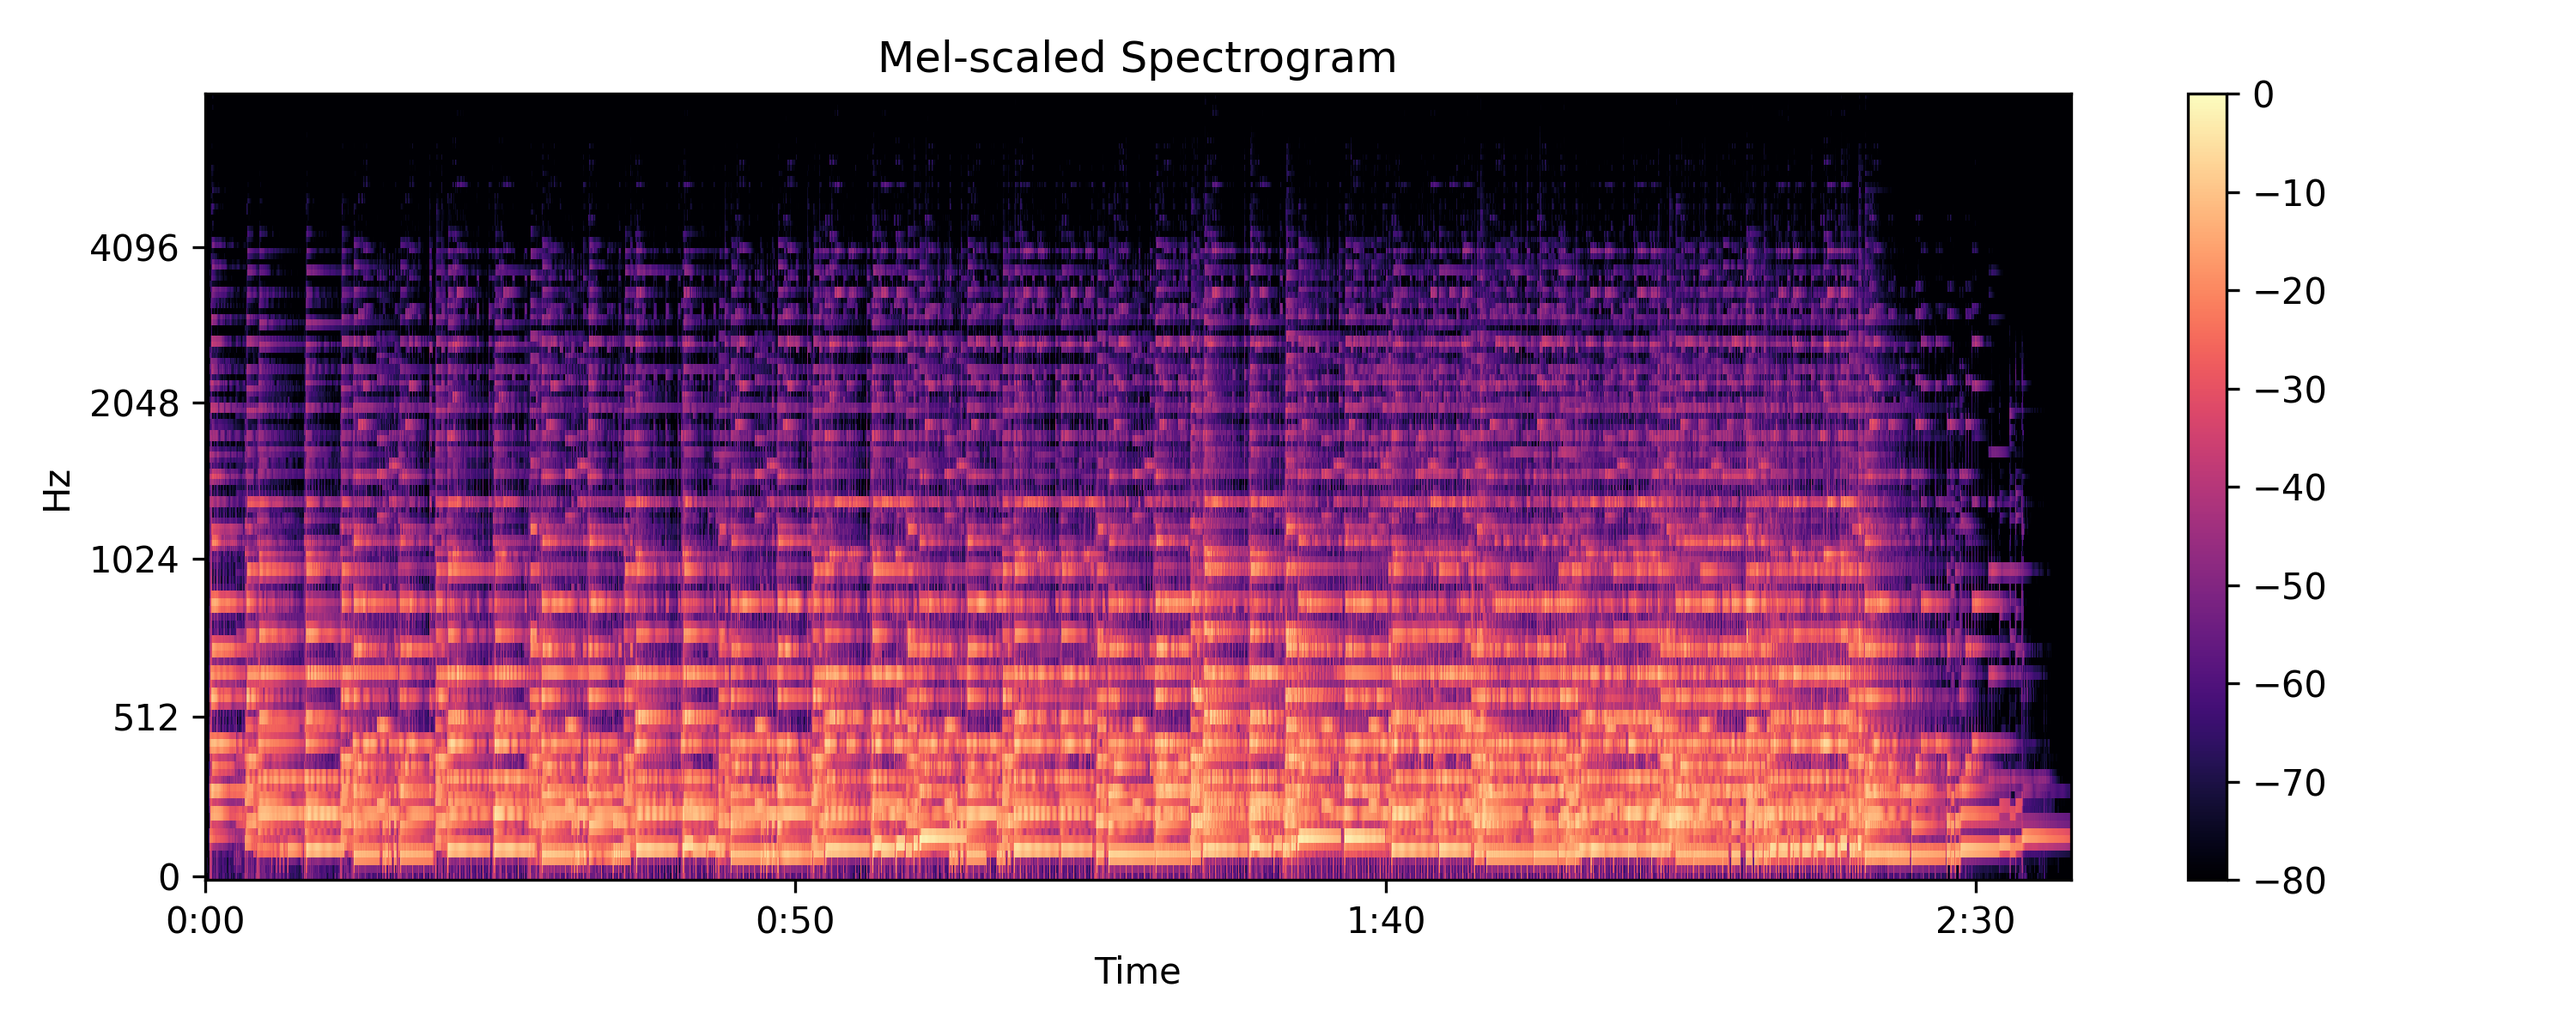
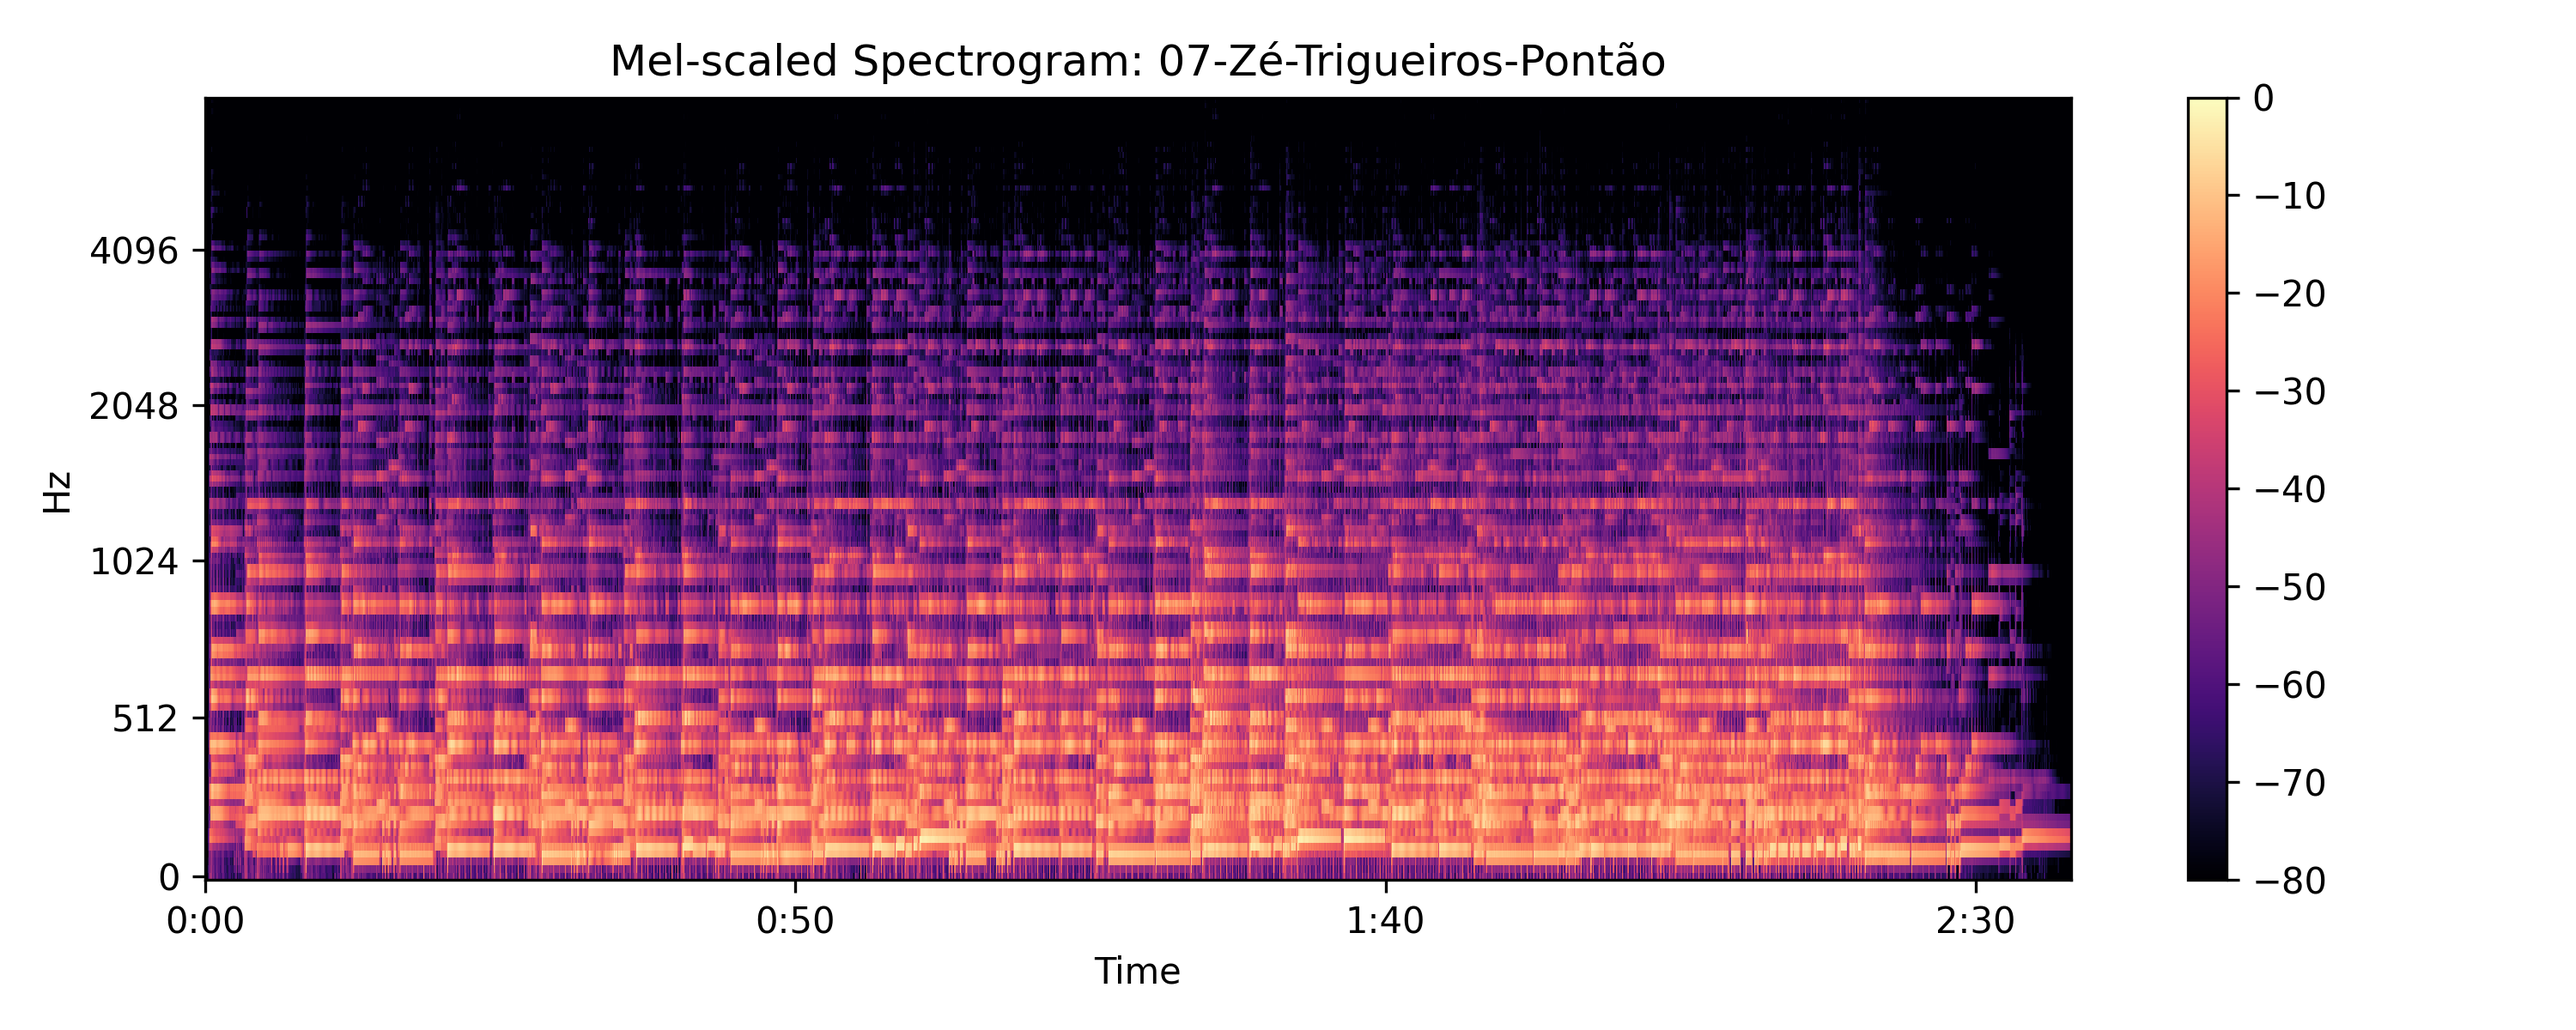
processing + batch encoder

diff --git a/wrangling/preprocessing.py b/wrangling/preprocessing.py
@@ -1,0 +1,168 @@
+import os
+import librosa
+import librosa.display
+import numpy as np
+import matplotlib.pyplot as plt
+
+# Set the path to the directory containing the .wav files
+WAVDIR = "example-train/wav/"
+
+# Set STFT params
+N_FFT = 2048
+HOP_LENGTH = 512
+
+# Set MFCC params
+N_MFCC = 13
+
+# display the waveform
+def show_waveform(signal, sr):
+    librosa.display.waveshow(signal, sr=sr)
+    plt.xlabel("Time")
+    plt.ylabel("Amplitude")
+    plt.show()
+
+
+# get the song name from the path
+def get_song_name(wav_path):
+    return wav_path.split("/")[-1].replace(".wav", "")
+
+
+# compute the mel-scaled spectrogram for a single .wav file
+def single_mel(wav_path, batch_mode=False, wav_dir=None, show_waveform=False):
+    if batch_mode:
+        assert wav_dir is not None, "wav_dir must be specified in batch mode"
+
+    song_name = get_song_name(wav_path)
+    print(f"Computing mel-scaled spectrogram for {song_name}...")
+    # load the waveform
+    signal, sr = librosa.load(wav_path)
+    if show_waveform:
+        show_waveform(signal, sr)
+    # compute the mel-scaled spectrogram
+    S = librosa.feature.melspectrogram(y=signal, sr=sr, n_mels=128, fmax=8000)
+    S_dB = librosa.power_to_db(S, ref=np.max)
+    # construct the figure
+    plt.figure(figsize=(10, 4))
+    librosa.display.specshow(S_dB, x_axis="time", y_axis="mel", sr=sr, fmax=8000)
+    plt.colorbar()
+    plt.title(f"Mel-scaled Spectrogram: {song_name}")
+    plt.tight_layout()
+
+    # save the figure
+    if batch_mode:
+        filename = wav_path.split(wav_dir)[-1].replace(".wav", ".png")
+    else:
+        # split at the last / to get the filename and remove the .wav extension
+        filename = wav_path.split("/")[-1].replace(".wav", ".png")
+
+    print(f"Saving mel-scaled spectrogram for {song_name} to {filename}...\n")
+    plt.savefig("mel/" + filename, dpi=300)
+
+    return signal, sr
+
+
+# compute the mel-scaled spectrogram for all .wav files in a directory
+def batch_mel(wav_dir):
+    # Iterate over the .wav files in the directory
+    for wav_path in os.listdir(wav_dir):
+        if wav_path.endswith(".wav"):
+            wav_path = wav_dir + wav_path  # add the directory to the path
+            single_mel(wav_path, batch_mode=True, wav_dir=wav_dir)
+
+
+# compute the fft for a signal
+def compute_fft(signal):
+    from numpy import fft
+
+    fft_out = fft.fft(signal)
+    magnitude = np.abs(fft_out)
+    return magnitude
+
+
+# compute the spectrum for a fft-computed magnitude of a signal
+def fft_to_spectrum(magnitude, sr, show=False):
+    frequency = np.linspace(0, sr, len(magnitude))
+    left_freq = frequency[: int(len(frequency) / 2)]
+    left_mag = magnitude[: int(len(magnitude) / 2)]
+    if show:
+        plt.cla()
+        plt.clf()
+        plt.plot(left_freq, left_mag)
+        plt.xlabel("Frequency")
+        plt.ylabel("Magnitude")
+        plt.show()
+
+
+# compute the short-time fourier transform for a signal
+def compute_stft(signal, n_fft=N_FFT, hop_length=HOP_LENGTH):
+    stft = librosa.core.stft(signal, n_fft=n_fft, hop_length=hop_length)
+    return stft
+
+
+# log-scale the spectrogram
+def logscale(spectrogram):
+    log_spec = librosa.amplitude_to_db(spectrogram)
+    return log_spec
+
+
+# display a spectrogram
+def specshow(spectrogram, sr, hop_length=HOP_LENGTH, save=False, outpath=None):
+    plt.clf()
+    plt.cla()
+    if save:
+        assert outpath is not None, "filename must be specified in save mode"
+        plt.figure(figsize=(10, 4))
+        librosa.display.specshow(spectrogram, sr=sr, hop_length=hop_length)
+        plt.xlabel("Time")
+        plt.ylabel("Frequency")
+        plt.colorbar()
+        plt.savefig(outpath, dpi=300)
+    else:
+        librosa.display.specshow(spectrogram, sr=sr, hop_length=hop_length)
+        plt.xlabel("Time")
+        plt.ylabel("Frequency")
+        plt.colorbar()
+        plt.show()
+
+
+# save a spectrogram
+def specsave(spectrogram, sr, outpath, hop_length=HOP_LENGTH):
+    specshow(spectrogram, sr, hop_length=hop_length, save=True, outpath=outpath)
+
+
+# compute Mel-frequency cepstral coefficients (MFCCs)
+def compute_mfcc(signal, sr, n_fft=N_FFT, hop_length=HOP_LENGTH, n_mfcc=N_MFCC):
+    MFCCs = librosa.feature.mfcc(
+        signal, sr=sr, n_fft=n_fft, hop_length=hop_length, n_mfcc=n_mfcc
+    )
+    return MFCCs
+
+
+# display MFCCs
+def show_mfcss(MFCCs, sr, hop_length=HOP_LENGTH, save=False, outpath=None):
+    plt.clf()
+    plt.cla()
+
+    if save:
+        assert outpath is not None, "filename must be specified in save mode"
+        plt.figure(figsize=(10, 4))
+        librosa.display.specshow(MFCCs, sr=sr, hop_length=hop_length)
+        plt.xlabel("Time")
+        plt.ylabel("MFCC")
+        plt.colorbar()
+        plt.savefig(outpath, dpi=300)
+    else:
+        librosa.display.specshow(MFCCs, sr=sr, hop_length=hop_length)
+        plt.xlabel("Time")
+        plt.ylabel("MFCC")
+        plt.colorbar()
+        plt.show()
+
+
+def main():
+    # compute and output the mel-scaled spectrograms for all .wav files in the directory
+    batch_mel(WAVDIR)
+
+
+if __name__ == "__main__":
+    main()

diff --git a/wrangling/encoder.py b/wrangling/encoder.py
@@ -1,0 +1,39 @@
+import numpy as np
+import os
+from PIL import Image
+
+
+class Encoder:
+    def __init__(self, pixels):
+        self.pixels = pixels
+
+    def encode(self):
+        one_hot_encoded = []
+
+        for row in self.pixels:
+            one_hot_row = []
+            for pixel in row:
+                if np.any(pixel == 0):
+                    one_hot_vector = [1, 0]
+                else:
+                    one_hot_vector = [0, 1]
+                one_hot_row.append(one_hot_vector)
+            one_hot_encoded.append(one_hot_row)
+
+        one_hot_encoded = np.array(one_hot_encoded)
+        print(one_hot_encoded.shape)
+
+        self.encoded_pixels = one_hot_encoded
+        return self.encoded_pixels
+
+
+def batch_encode(image_dir):
+    encoded_pixels = np.array([])
+    for image in os.listdir(image_dir):
+        if image.endswith(".png"):
+            image_path = image_dir + image
+            image = Image.open(image_path)
+            pixels = np.array(image)
+            encoder = Encoder(pixels)
+            encoded_pixels = np.append(encoded_pixels, encoder.encode())
+    return encoded_pixels

diff --git a/train.py b/train.py
@@ -1,0 +1,6 @@
+from model import MelCRNN
+from wrangling.encoder import Encoder
+
+EPOCHS = 1000
+LEARNING_RATE = 0.001
+BATCH_SIZE = 32
